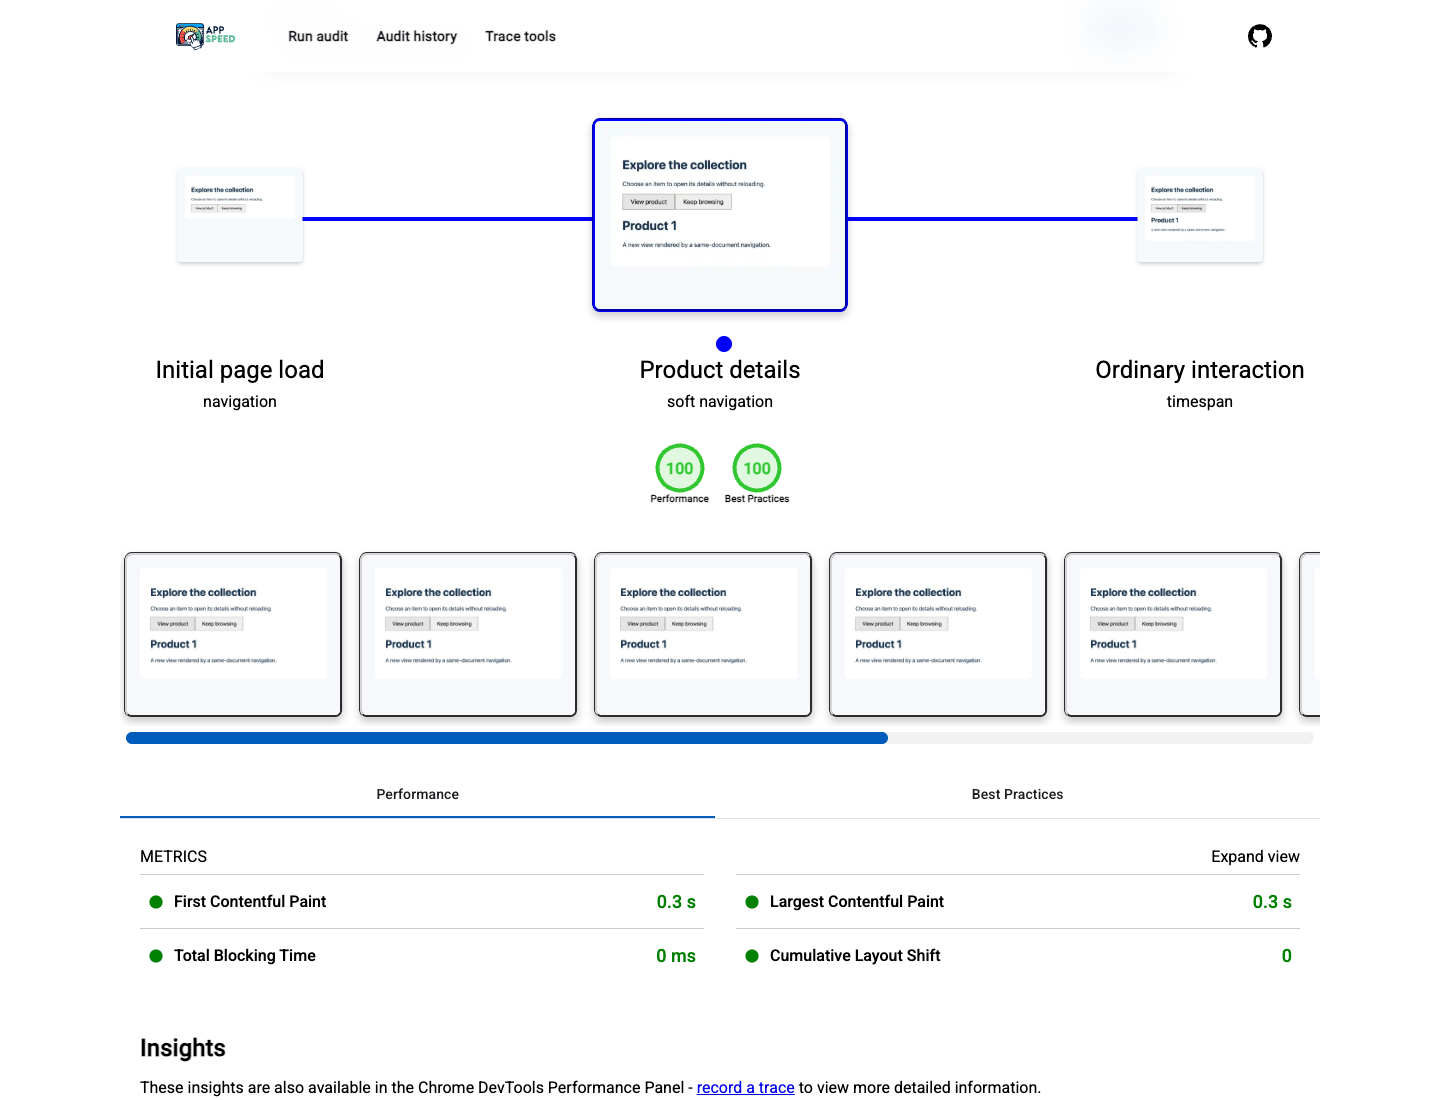
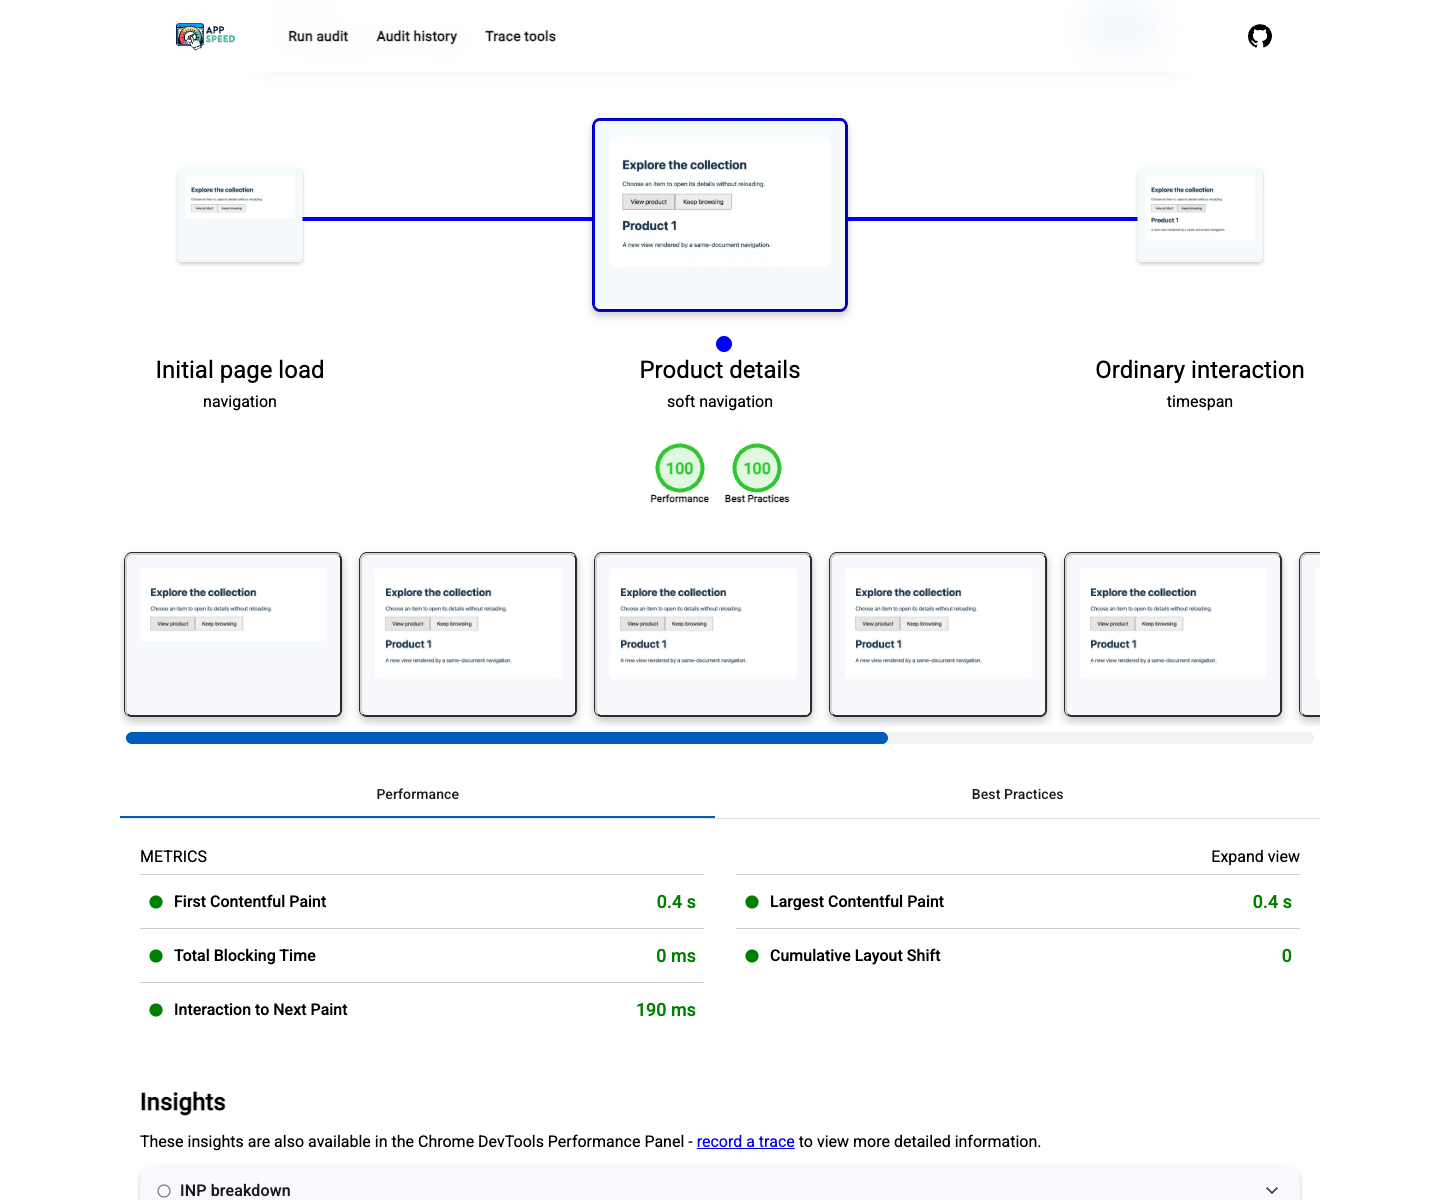
feat(audit): include triggering interaction INP in soft navigations

diff --git a/libs/audit/user-flow/runner/integration/soft-navigation.spec.ts b/libs/audit/user-flow/runner/integration/soft-navigation.spec.ts
@@ -19,6 +19,8 @@ const server = createServer((_request, response) => {
     </style><main><h1>Explore the collection</h1><p>Choose an item to open its details without reloading.</p>
     <button id="product">View product</button><button id="noop">Keep browsing</button><section id="content"></section></main>
     <script>let count = 0; document.querySelector('#product').onclick = () => {
+      const start = performance.now();
+      while (performance.now() - start < 180) { /* Deliberately block the triggering interaction. */ }
       count++; history.pushState({}, '', '/products/' + count);
       setTimeout(() => {
         document.querySelector('#content').innerHTML = '<h1>Product ' + count + '</h1><p>A new view rendered by a same-document navigation.</p>';
@@ -43,6 +45,7 @@ afterAll(async () => {
 });
 
 const decodeStep = Schema.decodeUnknownPromise(UserflowRunnerStepSchema);
+const RecordedInteraction = Schema.Struct({ interactionId: Schema.Number, duration: Schema.Number });
 
 describe('Lighthouse navigation experiment in Chrome', () => {
   it('measures a soft navigation through the replay start/end navigation steps', async () => {
@@ -55,6 +58,16 @@ describe('Lighthouse navigation experiment in Chrome', () => {
       await flow.navigate(baseUrl, { name: 'Initial page load' });
       const extension = new UserFlowRunnerExtension(browser, page, flow);
       await page.evaluate(() => localStorage.setItem('session', 'preserved'));
+      const observedInteractions = await page.evaluateHandle(() => {
+        const entries: PerformanceEventTiming[] = [];
+        const observer = new PerformanceObserver((list) => {
+          for (const entry of list.getEntries()) {
+            if (entry instanceof PerformanceEventTiming && entry.interactionId > 0) entries.push(entry);
+          }
+        });
+        observer.observe({ type: 'event', buffered: true });
+        return { entries, stop: () => observer.disconnect() };
+      });
       await extension.runStep(
         await decodeStep({
           type: 'customStep',
@@ -69,15 +82,50 @@ describe('Lighthouse navigation experiment in Chrome', () => {
         title: 'Navigation experiment',
         steps: [],
       });
+      const triggeringEvents = await observedInteractions.evaluate(({ entries, stop }) => {
+        stop();
+        return entries.map((entry) => ({
+          name: entry.name,
+          targetId: entry.target instanceof Element ? entry.target.id : undefined,
+          interactionId: entry.interactionId,
+          duration: entry.duration,
+        }));
+      });
+      await observedInteractions.dispose();
       await flow.startTimespan({ name: 'Ordinary interaction' });
       await page.click('#noop');
       await flow.endTimespan();
       expect(await page.evaluate(() => localStorage.getItem('session'))).toBe('preserved');
       const result = await flow.createFlowResult();
+      if (process.env['APP_SPEED_SOFT_NAV_ARTIFACTS']) {
+        const directory = resolve(process.env['APP_SPEED_SOFT_NAV_ARTIFACTS']);
+        await mkdir(directory, { recursive: true });
+        await writeFile(resolve(directory, 'flow-result.json'), JSON.stringify(result));
+        await writeFile(resolve(directory, 'flow-report.html'), generateReport(result, 'html'));
+        await writeFile(
+          resolve(directory, 'triggering-interaction.json'),
+          JSON.stringify(
+            {
+              triggeringEvents,
+              inp: result.steps[1].lhr.audits['interaction-to-next-paint'],
+              traceEvents: flow
+                .createArtifactsJson()
+                .gatherSteps[1].artifacts.Trace.traceEvents.filter((event) =>
+                  ['EventTiming', 'Responsiveness.Renderer.UserInteraction', 'SoftNavigationStart'].includes(
+                    event.name,
+                  ),
+                ),
+            },
+            null,
+            2,
+          ),
+        );
+      }
       const [hard, soft, timespan] = result.steps.map((step) => step.lhr);
       expect(hard.gatherMode).toBe('navigation');
       expect(hard.configSettings.softNavigation).toBe(false);
       expect(hard.audits['first-contentful-paint'].numericValue).toBeGreaterThan(0);
+      expect(hard.audits['interaction-to-next-paint']).toBeUndefined();
       expect(soft.gatherMode).toBe('navigation');
       expect(soft.configSettings.softNavigation).toBe(true);
       expect(soft.finalDisplayedUrl).toBe(`${baseUrl}/products/1`);
@@ -85,19 +133,59 @@ describe('Lighthouse navigation experiment in Chrome', () => {
         expect(soft.audits[id].scoreDisplayMode).toBe('numeric');
         expect(soft.audits[id].numericValue).toBeGreaterThan(0);
       }
+      const inp = soft.audits['interaction-to-next-paint'];
+      expect(inp.scoreDisplayMode).toBe('numeric');
+      expect(inp.numericValue).toBeGreaterThanOrEqual(180);
+      expect(soft.categories['performance'].auditRefs).toContainEqual({
+        id: 'interaction-to-next-paint',
+        weight: 0,
+        group: 'metrics',
+        acronym: 'INP',
+      });
+      expect(new Set(triggeringEvents.map((entry) => entry.interactionId)).size).toBe(1);
+      const trigger = triggeringEvents.find((entry) => entry.name === 'click' && entry.targetId === 'product');
+      expect(trigger).toBeDefined();
+      const recordedInteractions = flow
+        .createArtifactsJson()
+        .gatherSteps[1].artifacts.Trace.traceEvents.filter((event) => event.name === 'EventTiming' && event.ph !== 'e')
+        .map((event) => event.args['data'])
+        .filter(Schema.is(RecordedInteraction));
+      expect(recordedInteractions).toEqual(
+        expect.arrayContaining([
+          expect.objectContaining({ interactionId: trigger?.interactionId, duration: inp.numericValue }),
+        ]),
+      );
+      // Event Timing rounds public durations to 8 ms; Lighthouse uses the unrounded trace timing.
+      expect(Math.abs((inp.numericValue ?? 0) - (trigger?.duration ?? 0))).toBeLessThanOrEqual(16);
       expect(soft.audits['document-latency-insight'].scoreDisplayMode).toBe('notApplicable');
       expect(Object.values(soft.audits).filter((audit) => audit.scoreDisplayMode === 'error')).toEqual([]);
       expect(soft.categories['performance'].auditRefs.some((ref) => ref.id === 'largest-contentful-paint')).toBe(true);
       expect(timespan.gatherMode).toBe('timespan');
       expect(timespan.audits['soft-nav-fcp']).toBeUndefined();
       expect(timespan.audits['first-contentful-paint']).toBeUndefined();
+    } finally {
+      flow.dispose();
+      await page.close();
+    }
+  });
 
-      if (process.env['APP_SPEED_SOFT_NAV_ARTIFACTS']) {
-        const directory = resolve(process.env['APP_SPEED_SOFT_NAV_ARTIFACTS']);
-        await mkdir(directory, { recursive: true });
-        await writeFile(resolve(directory, 'flow-result.json'), JSON.stringify(result));
-        await writeFile(resolve(directory, 'flow-report.html'), generateReport(result, 'html'));
-      }
+  it('does not invent an INP value when the callback has no user interaction', async () => {
+    const page = await browser.newPage();
+    const flow = await startFlow(page, { flags: { throttlingMethod: 'provided' } });
+    try {
+      await page.goto(baseUrl);
+      await flow.navigate(
+        async () => {
+          await page.evaluate(() => {
+            history.pushState({}, '', '/programmatic');
+            document.querySelector('#content')?.replaceChildren('Programmatic content update');
+          });
+        },
+        { softNavigation: true },
+      );
+      const inp = (await flow.createFlowResult()).steps[0].lhr.audits['interaction-to-next-paint'];
+      expect(inp.scoreDisplayMode).toBe('notApplicable');
+      expect(inp.numericValue).toBeUndefined();
     } finally {
       flow.dispose();
       await page.close();

diff --git a/libs/audit/user-flow/runner/src/lib/audit/soft-navigation-config.spec.ts b/libs/audit/user-flow/runner/src/lib/audit/soft-navigation-config.spec.ts
@@ -1,0 +1,37 @@
+import { describe, expect, it } from 'vitest';
+import { initializeConfig } from 'lighthouse/core/config/config.js';
+
+describe('soft navigation audit configuration', () => {
+  const cases: { mode: 'navigation' | 'timespan'; softNavigation: boolean; includesInp: boolean }[] = [
+    { mode: 'navigation', softNavigation: true, includesInp: true },
+    { mode: 'navigation', softNavigation: false, includesInp: false },
+    { mode: 'timespan', softNavigation: false, includesInp: true },
+  ];
+
+  it.each(cases)(
+    'includes INP=$includesInp for $mode with softNavigation=$softNavigation',
+    async ({ mode, softNavigation, includesInp }) => {
+      const { resolvedConfig } = await initializeConfig(mode, undefined, { softNavigation });
+      expect(
+        resolvedConfig.audits?.some(({ implementation }) => implementation.meta.id === 'interaction-to-next-paint'),
+      ).toBe(includesInp);
+      expect(
+        resolvedConfig.categories?.['performance'].auditRefs.some(({ id }) => id === 'interaction-to-next-paint'),
+      ).toBe(includesInp);
+      if (softNavigation) expect(resolvedConfig.settings.throttlingMethod).toBe('devtools');
+    },
+  );
+
+  it('respects an explicit request to skip INP', async () => {
+    const { resolvedConfig } = await initializeConfig('navigation', undefined, {
+      softNavigation: true,
+      skipAudits: ['interaction-to-next-paint'],
+    });
+    expect(
+      resolvedConfig.audits?.some(({ implementation }) => implementation.meta.id === 'interaction-to-next-paint'),
+    ).toBe(false);
+    expect(
+      resolvedConfig.categories?.['performance'].auditRefs.some(({ id }) => id === 'interaction-to-next-paint'),
+    ).toBe(false);
+  });
+});

diff --git a/docs/features/audit/soft-navigation-experiment.md b/docs/features/audit/soft-navigation-experiment.md
@@ -20,8 +20,9 @@ True. Omitting it, or selecting False, keeps the existing page-load behavior. It
 ```
 
 The result stays `gatherMode: "navigation"` with `configSettings.softNavigation: true`. Standard First
-Contentful Paint and Largest Contentful Paint audits appear in Performance. The viewer labels the step
-“soft navigation.” Ordinary timespans no longer receive the previous `soft-nav-fcp` / `soft-nav-lcp` audits.
+Contentful Paint, Largest Contentful Paint, and Interaction to Next Paint audits appear in Performance.
+The viewer labels the step “soft navigation.” Ordinary timespans no longer receive the previous
+`soft-nav-fcp` / `soft-nav-lcp` audits.
 Previously saved reports retain their original audits.
 
 ## Lighthouse patch
@@ -36,6 +37,10 @@ The patch changes navigation gathering, same-document navigation waiting, trace 
 and metric timing. It does not build upstream's flow-report UI changes; exported Lighthouse HTML uses its
 existing Navigation label, while App Speed distinguishes soft navigation steps.
 
+The local patch additionally applies the soft-navigation filter directly, rather than first applying the
+normal navigation filter. This retains the timespan-only INP audit specifically for soft navigations;
+ordinary page-load navigations still omit INP. INP keeps its zero weight in the Performance score.
+
 This requires Chrome 149 or newer. The experimental implementation preserves page state, skips storage
 reset and `about:blank`, and uses observed throttling rather than Lantern simulation. Metrics use Chrome's
 soft-navigation trace events and navigation IDs. Page-load-only audits are filtered out or become not
@@ -45,6 +50,12 @@ soft navigations.
 Use one soft navigation per step. Multiple detections produce a warning and only the first is measured.
 No detection produces explicit metric errors instead of reusing the initial page's paint timing. Run
 warnings and metric errors are displayed in the viewer.
+
+INP covers interactions recorded between Start Navigation and End Navigation, including the interaction
+that triggers the soft navigation. Its measurement window is the complete recorded step, so multiple
+interactions in that step can contribute even when FCP/LCP describe only the first soft navigation. With
+no recorded user interaction, INP is not applicable. This is a lab measurement for scripted interactions,
+not a whole-visit real-user INP value.
 
 ## Verification
 
@@ -56,17 +67,24 @@ This uncached target starts an isolated local HTTP fixture and Puppeteer's insta
 
 - A page load, a soft navigation through the real replay extension, and an ordinary timespan in one flow.
 - Standard FCP/LCP results, navigation metadata, preserved local storage, and no audit errors.
+- INP for the triggering click: a 180 ms blocking click handler, with Lighthouse's reported latency
+  compared against Chrome's Event Timing observer for the same button and single interaction ID, and
+  matched to a trace event with that interaction ID and exact unrounded duration.
+- No invented INP value when the callback changes the URL/content without user input.
 - Missing soft navigation errors with a bounded wait.
 - Multiple soft navigation warnings.
 
 Set `APP_SPEED_SOFT_NAV_ARTIFACTS` to an absolute output directory to retain the real flow result JSON and
 HTML from the successful browser test. These are generated test artifacts, not repository fixtures.
+The same directory also receives `triggering-interaction.json`, containing the observed interaction,
+reported INP, and relevant trace events for inspection.
 
 ## Screenshots
 
 The builder screenshot demonstrates the optional navigation setting. The results screenshot uses actual
-Lighthouse output from the Chrome 152 browser test, with a 250 ms delayed SPA render. For this UI review,
-Playwright fulfills the API responses with that captured result; database persistence is not exercised.
+Lighthouse output from the Chrome 152 browser test, with a 180 ms blocking click and a 250 ms delayed SPA render.
+For this UI review, Playwright fulfills the API responses with that captured result; database persistence
+is not exercised.
 
 ![Soft navigation configured on Start Navigation](screenshots/soft-navigation-builder.png)
 
